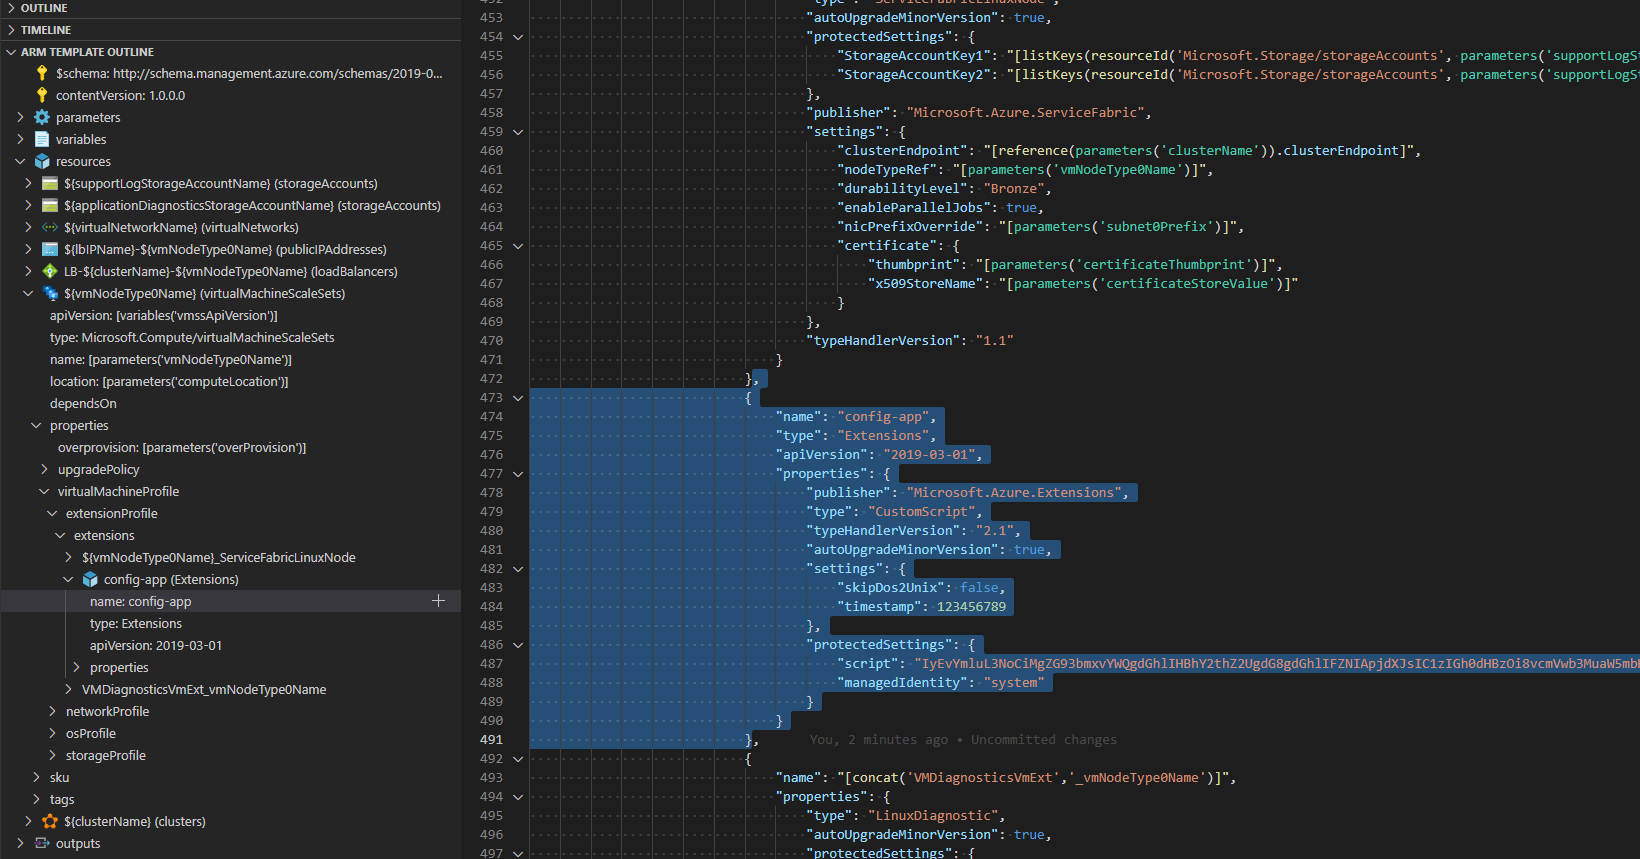
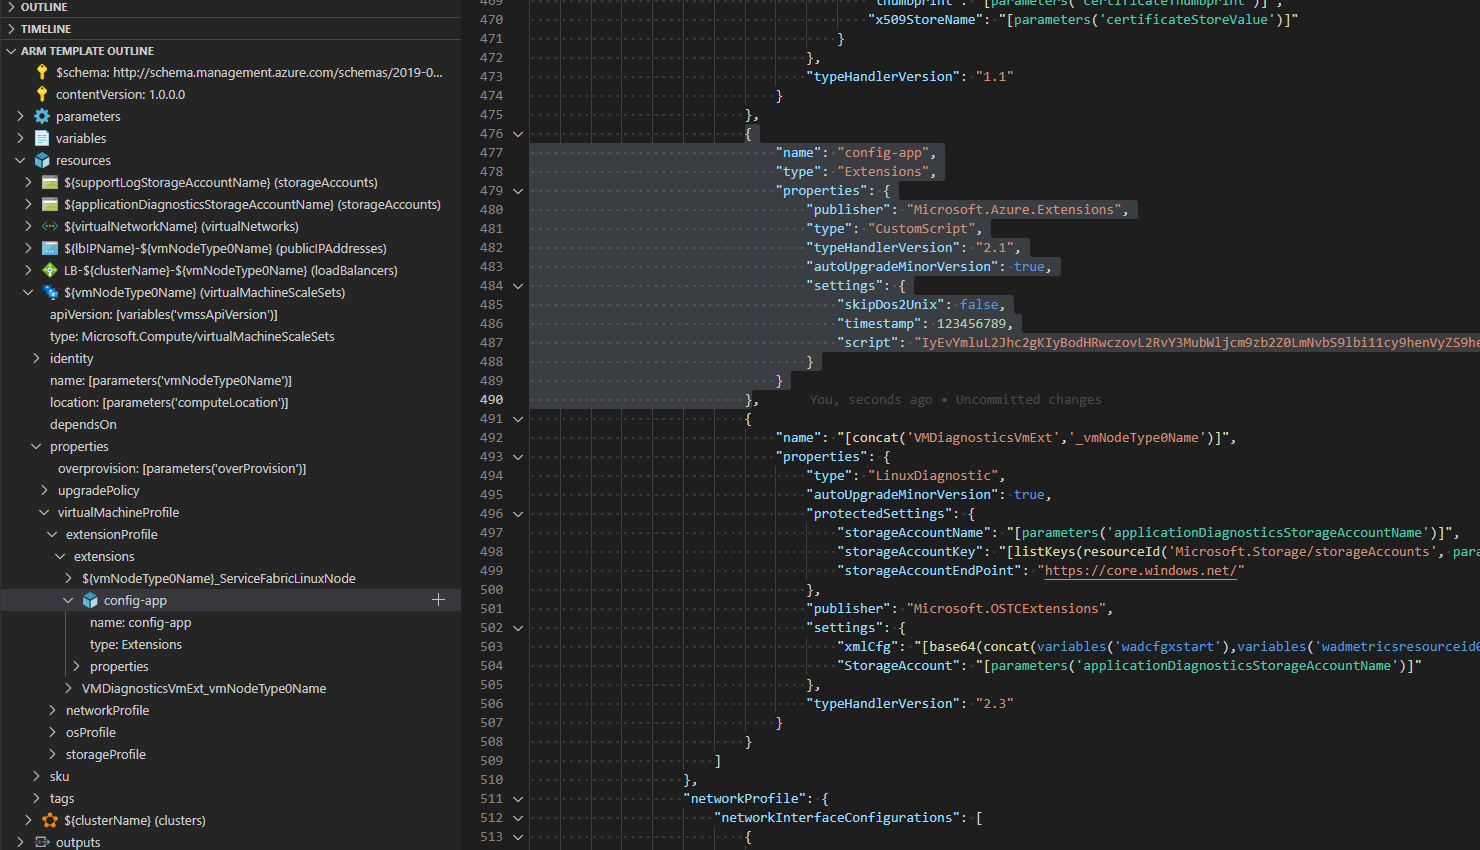
update png

Changed region(s): [[0.0, 0.0, 1.0, 1.0], [0.4351, 0.0612, 0.4662, 0.0918]]

diff --git a/Cluster/How to setup Azure Alerts for Service Fabric Linux node performance counters.md b/Cluster/How to setup Azure Alerts for Service Fabric Linux node performance counters.md
@@ -43,7 +43,7 @@ sudo systemctl start telegraf >> $log_file
 echo "this has been written via cse $(date)" >> $log_file
 ```
 
-For use with CSE protectedSetting or setting 'script', the script above will need to be converted to base64 string as shown below.
+For use with CSE in 'protectedSettings' or 'settings', property 'script' value should be set to the script above converted to base64 string as shown below.
 
 ```powershell
   $inputString = @'
@@ -181,7 +181,7 @@ index 1d7e7be..5bede68 100644
          {
              "apiVersion": "[variables('vmssApiVersion')]",
              "type": "Microsoft.Compute/virtualMachineScaleSets",
-+                        "identity": {
++            "identity": {
 +                "type": "systemAssigned"
 +            },
              "name": "[parameters('vmNodeType0Name')]",
